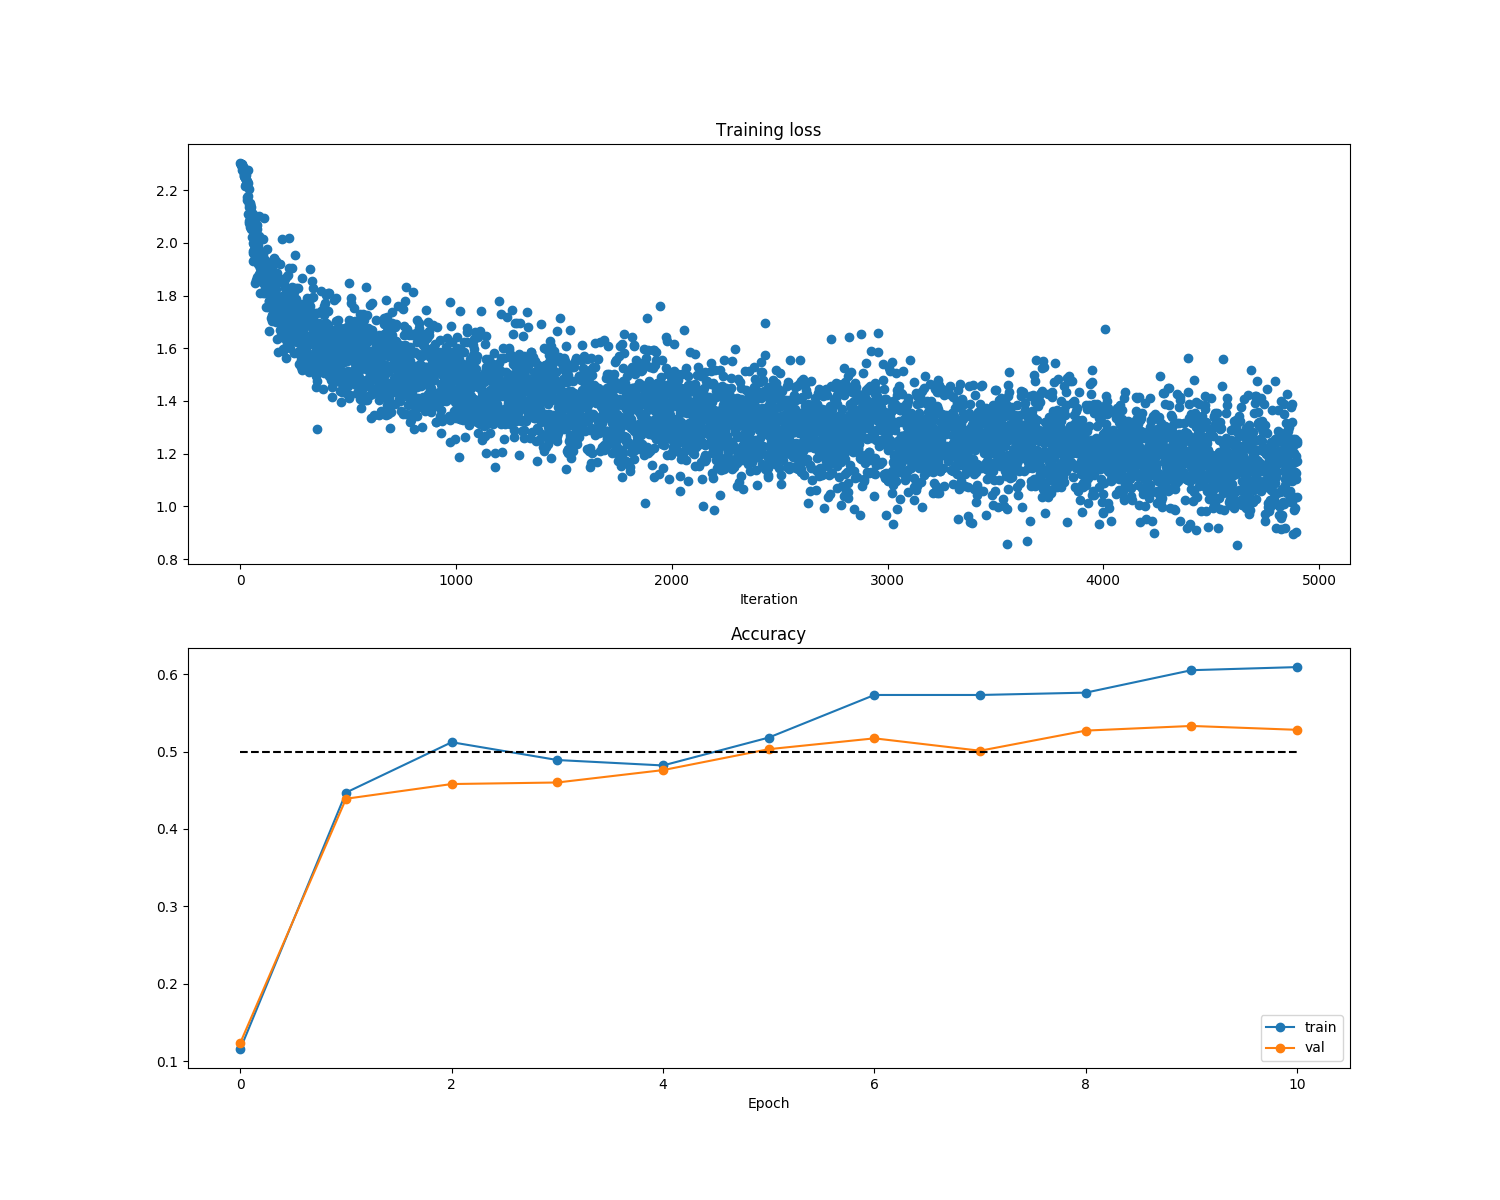
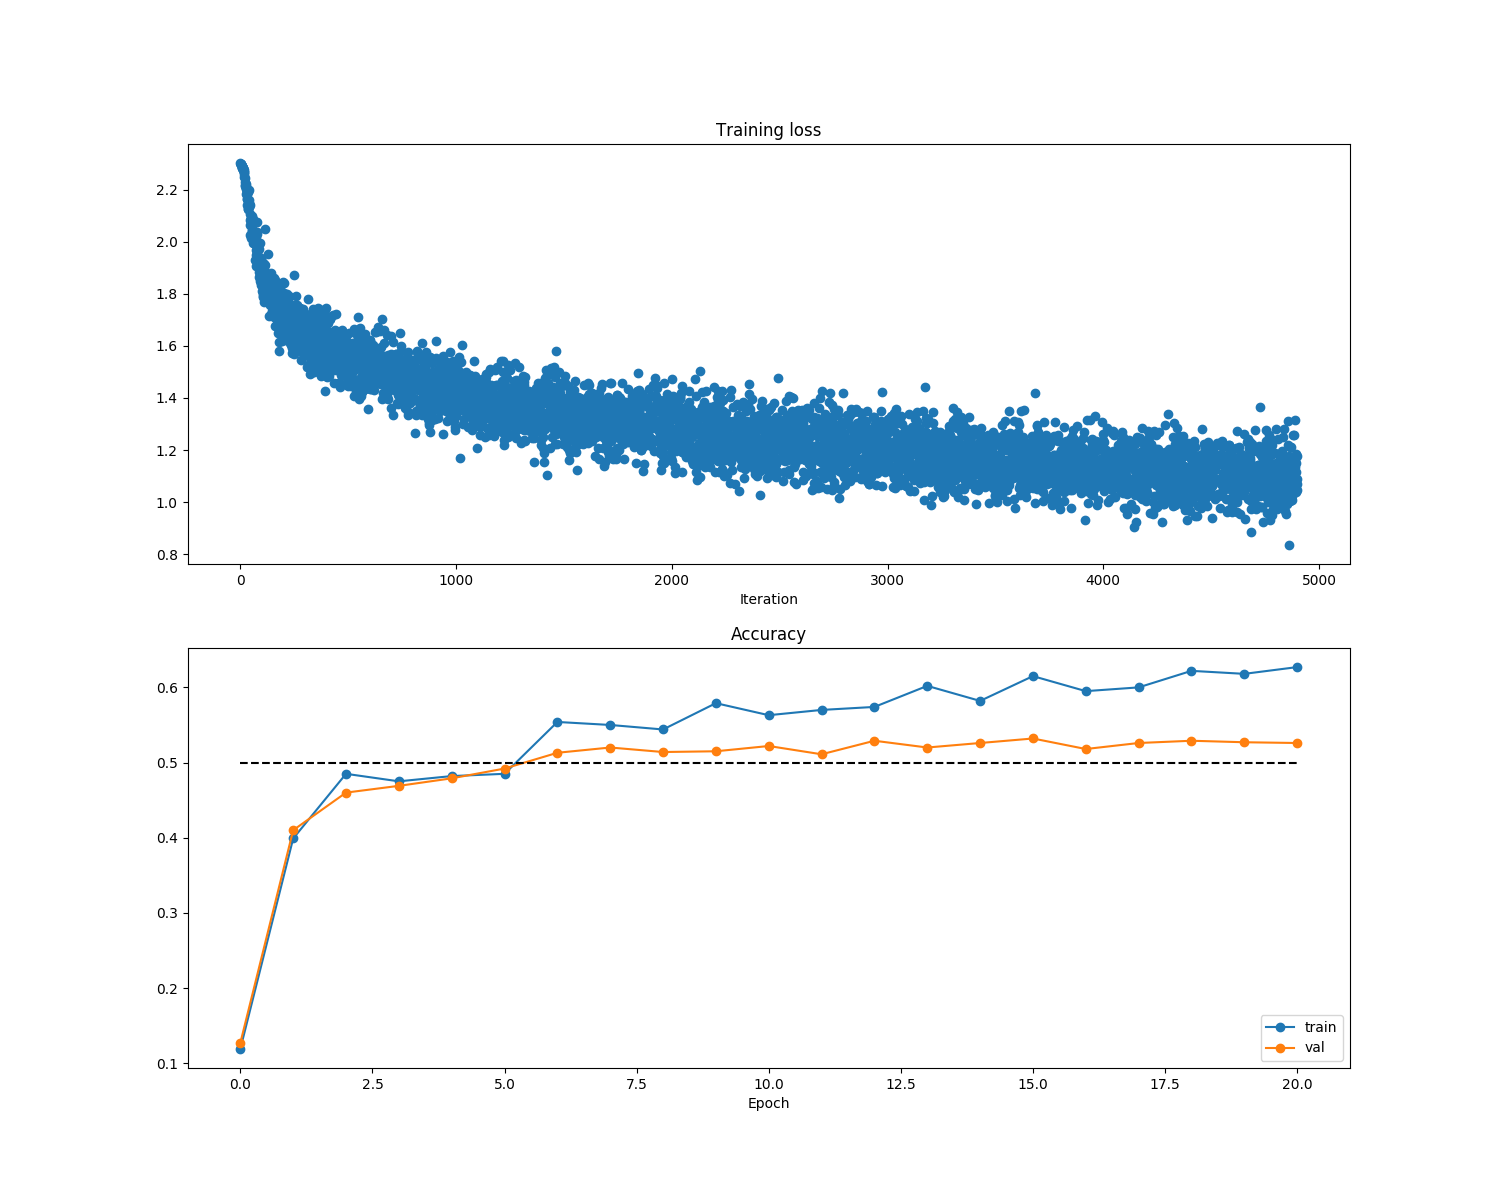
2-NN Solver Implimentation

diff --git a/assignment2/FullyConnectedNets.py b/assignment2/FullyConnectedNets.py
@@ -274,7 +274,7 @@ best_val = 0
 #print('Best validaton acc achieved in training:', best_val)
 lr, reg, hidden =  8.069800e-04, 1.774396e-04, 80
 model = TwoLayerNet(hidden_dim = hidden, reg = reg)
-solver = Solver(model, data, update_rule='sgd', optim_config={'learning_rate': lr}, lr_decay=0.95, num_epochs=10, batch_size=100, print_every=-1, verbose=False)
+solver = Solver(model, data, update_rule='sgd', optim_config={'learning_rate': lr}, lr_decay=0.95, num_epochs=20, batch_size=200, print_every=-1, verbose=False)
 solver.train()
 val_acc = solver.best_val_acc
 print('Best validation accuracy:', val_acc) # 53.3%
